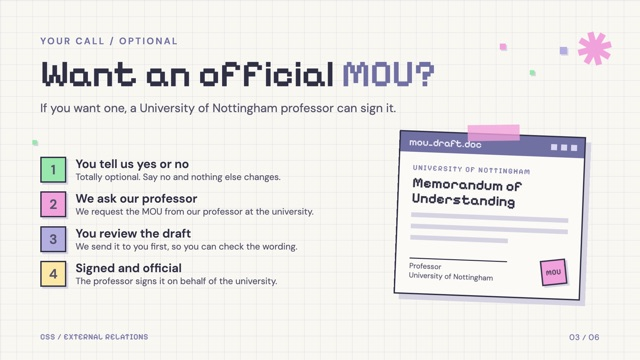
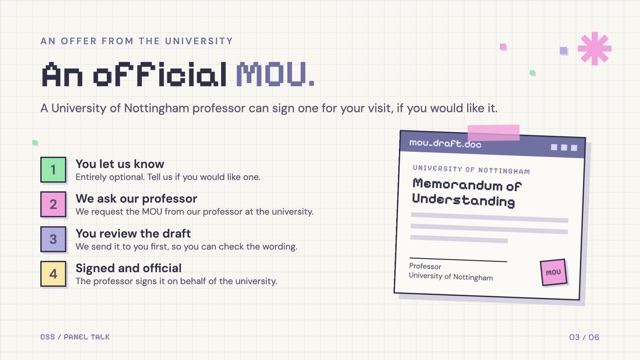
Rework the panel talk deck as the live presentation for Waihao
Cover is now CSS × Waihao. Speakers: Asadullah (Cognizant, confirmed), Waihao (Microsoft, invited) in the middle, third speaker to be confirmed. The MOU slide is a statement of what we offer rather than a question. Renames the folder to external/01-waihao-panel and updates the hub and README.

diff --git a/external/01-waihao-panel/index.html b/external/01-waihao-panel/index.html
@@ -5,7 +5,7 @@
   <meta name="viewport" content="width=device-width, initial-scale=1">
   <meta name="theme-color" content="#f8f7f2">
   <meta name="robots" content="noindex">
-  <title>CSS External Relations — Panel talk with WYHOW</title>
+  <title>Computer Science Society — Panel Talk with Waihao</title>
   <link rel="icon" href="../../assets/css-logo.png">
   <style>
     @font-face{font-family:Pixelify;src:url('../../assets/fonts/pixelify-400.ttf') format('truetype');font-weight:400;font-display:swap}
@@ -84,6 +84,7 @@
     .person .tag{margin-top:12px;font:400 24px ClearDigits,Pixelify,monospace;letter-spacing:2px;color:var(--purple)}
     .person.open{border-style:dashed;background:transparent;box-shadow:none}
     .person.open .name{color:var(--purple)}
+    .stamp.ok{background:var(--mint)}
     .stamp{position:absolute;right:-18px;top:-22px;padding:4px 16px;background:var(--pink);border:4px solid var(--ink);font:400 24px ClearDigits,Pixelify,monospace;letter-spacing:2px;transform:rotate(5deg)}
     .facts{position:absolute;left:120px;right:120px;top:850px;display:grid;grid-template-columns:1fr 1fr;gap:44px}
     .fact{padding-left:26px;border-left:6px solid var(--mint)}
@@ -156,28 +157,28 @@
   </style>
 </head>
 <body>
-  <main class="stage" id="stage" aria-label="Panel talk with WYHOW">
+  <main class="stage" id="stage" aria-label="Computer Science Society Panel Talk with Waihao">
 
     <!-- 1 · Cover -->
-    <section class="slide" aria-label="Slide 1: Panel talk with WYHOW">
+    <section class="slide" aria-label="Slide 1: CSS × Waihao">
       <div class="cover-copy">
-        <p class="eyebrow rise">COMPUTER SCIENCE SOCIETY / EXTERNAL RELATIONS</p>
-        <h1 class="rise" style="--d:1">Join our<br><em>panel talk.</em></h1>
-        <p class="rise" style="--d:2">A quick chat with WYHOW from Microsoft about speaking at our campus, University of Nottingham.</p>
-        <div class="date-button rise" style="--d:3">Meeting with WYHOW →</div>
+        <p class="eyebrow rise">COMPUTER SCIENCE SOCIETY / PANEL TALK</p>
+        <h1 class="rise" style="--d:1">CSS ×<br><em>Waihao.</em></h1>
+        <p class="rise" style="--d:2">The Computer Science Society Panel Talk, at the University of Nottingham.</p>
+        <div class="date-button rise" style="--d:3">Welcome, Waihao →</div>
       </div>
       <div class="window cover-window pop" style="--d:2;--tilt:6deg">
         <div class="tape" aria-hidden="true"></div>
         <div class="window-bar"><span>panel_talk.exe</span><span class="lights" aria-hidden="true"><i></i><i></i><i></i></span></div>
         <div class="body">
           <img src="../../assets/css-logo.png" alt="Computer Science Society logo">
-          <p class="loading">&gt; loading speaker: wyhow...</p>
+          <p class="loading">&gt; loading speaker: waihao...</p>
         </div>
       </div>
       <svg class="asterisk mint" style="left:1720px;top:96px;width:128px;height:128px" viewBox="0 0 100 100" aria-hidden="true"><path d="M50 4v92M4 50h92M17.5 17.5l65 65M82.5 17.5l-65 65"/></svg>
       <svg class="asterisk pink" style="left:1110px;top:790px;width:78px;height:78px" viewBox="0 0 100 100" aria-hidden="true"><path d="M50 4v92M4 50h92M17.5 17.5l65 65M82.5 17.5l-65 65"/></svg>
       <svg class="envelope" style="left:1560px;top:850px;width:210px;height:162px" viewBox="0 0 160 124" aria-hidden="true"><rect x="5" y="5" width="150" height="114"/><path d="M5 5l75 62 75-62"/><rect class="seal" x="66" y="54" width="28" height="26"/></svg>
-      <p class="binary" aria-hidden="true">01010111 01011001 01001000</p>
+      <p class="binary" aria-hidden="true">01010111 01000001 01001001</p>
     </section>
 
     <!-- 2 · The panel -->
@@ -193,17 +194,18 @@
       <div class="head">
         <p class="eyebrow rise">THE EVENT / PANEL TALK</p>
         <h1 class="rise" style="--d:1">Three speakers, <em>one panel.</em></h1>
-        <p class="lede rise" style="--d:2">Three speakers share their work with our students, on our campus.</p>
+        <p class="lede rise" style="--d:2">Industry speakers, our students in the room, on our campus.</p>
       </div>
       <div class="speakers">
         <article class="person pop" style="--d:3;--tilt:-1.2deg">
-          <span class="stamp" aria-hidden="true">INVITED</span>
+          <span class="stamp ok" aria-hidden="true">CONFIRMED</span>
           <div class="window-bar"><span>speaker_01.exe</span><span class="lights" aria-hidden="true"><i></i><i></i><i></i></span></div>
-          <div class="body"><div class="tile" style="--c:var(--mint)" aria-hidden="true">W</div><p class="name">WYHOW</p><p class="tag">ENGINEER · MICROSOFT</p></div>
+          <div class="body"><div class="tile" style="--c:var(--mint)" aria-hidden="true">A</div><p class="name">Asadullah</p><p class="tag">COGNIZANT</p></div>
         </article>
-        <article class="person open pop" style="--d:4;--tilt:.8deg">
+        <article class="person pop" style="--d:4;--tilt:.8deg">
+          <span class="stamp" aria-hidden="true">INVITED</span>
           <div class="window-bar"><span>speaker_02.exe</span><span class="lights" aria-hidden="true"><i></i><i></i><i></i></span></div>
-          <div class="body"><div class="tile" style="--c:var(--lavender)" aria-hidden="true">?</div><p class="name">To be confirmed</p><p class="tag">SPEAKER 02</p></div>
+          <div class="body"><div class="tile" style="--c:var(--lavender)" aria-hidden="true">W</div><p class="name">Waihao</p><p class="tag">ENGINEER · MICROSOFT</p></div>
         </article>
         <article class="person open pop" style="--d:5;--tilt:-.8deg">
           <div class="window-bar"><span>speaker_03.exe</span><span class="lights" aria-hidden="true"><i></i><i></i><i></i></span></div>
@@ -214,7 +216,7 @@
         <p class="fact"><b>WHERE</b><span>Our campus, University of Nottingham</span></p>
         <p class="fact"><b>WHEN</b><span>Picked once all three speakers are confirmed</span></p>
       </div>
-      <div class="footer"><span>CSS / EXTERNAL RELATIONS</span><span>02 / 06</span></div>
+      <div class="footer"><span>CSS / PANEL TALK</span><span>02 / 06</span></div>
     </section>
 
     <!-- 3 · MOU -->
@@ -227,12 +229,12 @@
       </div>
       <svg class="asterisk pink" style="left:1730px;top:90px;width:110px;height:110px" viewBox="0 0 100 100" aria-hidden="true"><path d="M50 4v92M4 50h92M17.5 17.5l65 65M82.5 17.5l-65 65"/></svg>
       <div class="head">
-        <p class="eyebrow rise">YOUR CALL / OPTIONAL</p>
-        <h1 class="rise" style="--d:1">Want an official <em>MOU?</em></h1>
-        <p class="lede rise" style="--d:2">If you want one, a University of Nottingham professor can sign it.</p>
+        <p class="eyebrow rise">AN OFFER FROM THE UNIVERSITY</p>
+        <h1 class="rise" style="--d:1">An official <em>MOU.</em></h1>
+        <p class="lede rise" style="--d:2">A University of Nottingham professor can sign one for your visit, if you would like it.</p>
       </div>
       <div class="steps">
-        <div class="step rise" style="--d:3"><span class="n" style="--c:var(--mint)">1</span><div><b>You tell us yes or no</b><span>Totally optional. Say no and nothing else changes.</span></div></div>
+        <div class="step rise" style="--d:3"><span class="n" style="--c:var(--mint)">1</span><div><b>You let us know</b><span>Entirely optional. Tell us if you would like one.</span></div></div>
         <div class="step rise" style="--d:4"><span class="n" style="--c:var(--pink)">2</span><div><b>We ask our professor</b><span>We request the MOU from our professor at the university.</span></div></div>
         <div class="step rise" style="--d:5"><span class="n" style="--c:var(--lavender)">3</span><div><b>You review the draft</b><span>We send it to you first, so you can check the wording.</span></div></div>
         <div class="step rise" style="--d:6"><span class="n" style="--c:var(--sun)">4</span><div><b>Signed and official</b><span>The professor signs it on behalf of the university.</span></div></div>
@@ -247,7 +249,7 @@
           <div class="sign"><div>Professor<br>University of Nottingham</div><span class="seal" aria-hidden="true">MOU</span></div>
         </div>
       </div>
-      <div class="footer"><span>CSS / EXTERNAL RELATIONS</span><span>03 / 06</span></div>
+      <div class="footer"><span>CSS / PANEL TALK</span><span>03 / 06</span></div>
     </section>
 
     <!-- 4 · Looking after speakers -->
@@ -291,7 +293,7 @@
         </article>
       </div>
       <p class="note-strip rise" style="--d:6"><i aria-hidden="true"></i>For the travel, just keep your fuel receipt or your Grab screenshot.</p>
-      <div class="footer"><span>CSS / EXTERNAL RELATIONS</span><span>04 / 06</span></div>
+      <div class="footer"><span>CSS / PANEL TALK</span><span>04 / 06</span></div>
     </section>
 
     <!-- 5 · Road to event day -->
@@ -309,14 +311,14 @@
         <p class="lede rise" style="--d:2;font-size:32px">We will keep you posted at every step.</p>
       </div>
       <div class="road">
-        <article class="stop pop" style="--d:3"><span class="n" style="--c:var(--mint)">1</span><h3>Secure all three speakers</h3><p>We confirm the other two speakers, then tell you straight away.</p><span class="chip">AIM: BY NEXT WEEK</span></article>
+        <article class="stop pop" style="--d:3"><span class="n" style="--c:var(--mint)">1</span><h3>Confirm all three speakers</h3><p>Asadullah is confirmed. We confirm the third, then tell you.</p><span class="chip">AIM: BY NEXT WEEK</span></article>
         <article class="stop pop" style="--d:4"><span class="n" style="--c:var(--pink)">2</span><h3>Ask for your best time</h3><p>We ask each speaker separately which time suits them best.</p></article>
         <article class="stop pop" style="--d:5"><span class="n" style="--c:var(--lavender)">3</span><h3>Confirm the event time</h3><p>With the best times in, we fix the date and time for everyone.</p></article>
         <article class="stop pop" style="--d:6"><span class="n" style="--c:var(--sun)">4</span><h3>Online rehearsal</h3><p>A short online session to run through the panel together.</p></article>
         <article class="stop pop" style="--d:7"><span class="n" style="--c:var(--mint)">5</span><h3>Your speaker handbook</h3><p>How to get to Nottingham, the event flow, the event questions, where to park and more.</p></article>
         <article class="stop final pop" style="--d:8"><span class="n" style="--c:var(--pink)">6</span><h3>Event day</h3><p>The panel talk, then your gift and a free dinner.</p></article>
       </div>
-      <div class="footer"><span>CSS / EXTERNAL RELATIONS</span><span>05 / 06</span></div>
+      <div class="footer"><span>CSS / PANEL TALK</span><span>05 / 06</span></div>
     </section>
 
     <!-- 6 · Questions -->
@@ -331,11 +333,11 @@
       <div class="head">
         <p class="eyebrow rise">QUESTIONS FOR YOU</p>
         <h1 class="rise" style="--d:1">A few quick <em>questions.</em></h1>
-        <p class="lede rise" style="--d:2">Short answers are fine. Your reply is not a final commitment.</p>
+        <p class="lede rise" style="--d:2">Short answers are fine. Nothing here is final.</p>
       </div>
       <div class="asks">
         <div class="ask rise" style="--d:3"><span class="box" aria-hidden="true"></span><div><b>Would you like to join the panel?</b><span>The date is not fixed yet, so this is your interest for now.</span></div></div>
-        <div class="ask rise" style="--d:4"><span class="box" aria-hidden="true"></span><div><b>Do you want an official MOU?</b><span>Signed by a University of Nottingham professor, only if you want one.</span></div></div>
+        <div class="ask rise" style="--d:4"><span class="box" aria-hidden="true"></span><div><b>Shall we arrange the MOU?</b><span>Signed by a University of Nottingham professor, only if you would like one.</span></div></div>
         <div class="ask rise" style="--d:5"><span class="box" aria-hidden="true"></span><div><b>Does fuel or Grab reimbursement work?</b><span>Plus the thank-you gift and free dinner on the day.</span></div></div>
         <div class="ask rise" style="--d:6"><span class="box" aria-hidden="true"></span><div><b>Any days or times we should avoid?</b><span>This helps when we ask every speaker for a best time.</span></div></div>
       </div>
@@ -344,11 +346,11 @@
         <div class="window-bar"><span>next_steps.txt</span><span class="lights" aria-hidden="true"><i></i><i></i><i></i></span></div>
         <div class="body">
           <p class="k">&gt; WHAT WE DO NEXT</p>
-          <p>We secure all three speakers, aiming for next week, then come back to you with the plan.</p>
-          <p class="thanks">Thank you, WYHOW!</p>
+          <p>We confirm our third speaker, aiming for next week, then come back to you with the plan.</p>
+          <p class="thanks">Thank you, Waihao!</p>
         </div>
       </div>
-      <div class="footer"><span>CSS / EXTERNAL RELATIONS</span><span>06 / 06</span></div>
+      <div class="footer"><span>CSS / PANEL TALK</span><span>06 / 06</span></div>
     </section>
 
   </main>

diff --git a/index.html b/index.html
@@ -95,13 +95,13 @@
         <div class="sec-head"><span class="sec-no" style="--c:var(--lavender)" aria-hidden="true">3</span><div><h2 id="external-h">External relations</h2><p>Slides for speakers, partners and the university.</p></div></div>
         <div class="decks">
       <article class="deck">
-        <div class="bar"><span>wyhow_panel.exe</span><span class="lights" aria-hidden="true"><i></i><i></i><i></i></span></div>
+        <div class="bar"><span>waihao_panel.exe</span><span class="lights" aria-hidden="true"><i></i><i></i><i></i></span></div>
         <div class="deck-body">
           <p class="tag">SPEAKER MEETING · PANEL TALK</p>
-          <h3><a href="external/01-wyhow-panel/">Panel talk with WYHOW</a></h3>
-        <p class="note">Short briefing for the Microsoft engineer we are inviting to speak on campus.</p>
-          <ol class="thumbs"><li><a href="external/01-wyhow-panel/#1" title="Join our panel talk" aria-label="Panel talk with WYHOW, slide 1: Join our panel talk"><span class="shot"><img src="external/thumbs/01-1.jpg" alt="" loading="lazy" width="640" height="360"><b>01</b></span><span class="cap">Join our panel talk</span></a></li><li><a href="external/01-wyhow-panel/#2" title="The panel" aria-label="Panel talk with WYHOW, slide 2: The panel"><span class="shot"><img src="external/thumbs/01-2.jpg" alt="" loading="lazy" width="640" height="360"><b>02</b></span><span class="cap">The panel</span></a></li><li><a href="external/01-wyhow-panel/#3" title="Official MOU" aria-label="Panel talk with WYHOW, slide 3: Official MOU"><span class="shot"><img src="external/thumbs/01-3.jpg" alt="" loading="lazy" width="640" height="360"><b>03</b></span><span class="cap">Official MOU</span></a></li><li><a href="external/01-wyhow-panel/#4" title="Looking after speakers" aria-label="Panel talk with WYHOW, slide 4: Looking after speakers"><span class="shot"><img src="external/thumbs/01-4.jpg" alt="" loading="lazy" width="640" height="360"><b>04</b></span><span class="cap">Looking after speakers</span></a></li><li><a href="external/01-wyhow-panel/#5" title="From yes to event day" aria-label="Panel talk with WYHOW, slide 5: From yes to event day"><span class="shot"><img src="external/thumbs/01-5.jpg" alt="" loading="lazy" width="640" height="360"><b>05</b></span><span class="cap">From yes to event day</span></a></li><li><a href="external/01-wyhow-panel/#6" title="Quick questions" aria-label="Panel talk with WYHOW, slide 6: Quick questions"><span class="shot"><img src="external/thumbs/01-6.jpg" alt="" loading="lazy" width="640" height="360"><b>06</b></span><span class="cap">Quick questions</span></a></li></ol>
-          <div class="deck-foot"><span class="count">6 SLIDES</span><a class="open" href="external/01-wyhow-panel/">Open deck →</a></div>
+          <h3><a href="external/01-waihao-panel/">Panel talk with Waihao</a></h3>
+        <p class="note">Slides for our meeting with Waihao, a Microsoft engineer we have invited to speak at our panel talk.</p>
+          <ol class="thumbs"><li><a href="external/01-waihao-panel/#1" title="CSS × Waihao" aria-label="Panel talk with Waihao, slide 1: CSS × Waihao"><span class="shot"><img src="external/thumbs/01-1.jpg" alt="" loading="lazy" width="640" height="360"><b>01</b></span><span class="cap">CSS × Waihao</span></a></li><li><a href="external/01-waihao-panel/#2" title="The panel" aria-label="Panel talk with Waihao, slide 2: The panel"><span class="shot"><img src="external/thumbs/01-2.jpg" alt="" loading="lazy" width="640" height="360"><b>02</b></span><span class="cap">The panel</span></a></li><li><a href="external/01-waihao-panel/#3" title="Official MOU" aria-label="Panel talk with Waihao, slide 3: Official MOU"><span class="shot"><img src="external/thumbs/01-3.jpg" alt="" loading="lazy" width="640" height="360"><b>03</b></span><span class="cap">Official MOU</span></a></li><li><a href="external/01-waihao-panel/#4" title="Looking after speakers" aria-label="Panel talk with Waihao, slide 4: Looking after speakers"><span class="shot"><img src="external/thumbs/01-4.jpg" alt="" loading="lazy" width="640" height="360"><b>04</b></span><span class="cap">Looking after speakers</span></a></li><li><a href="external/01-waihao-panel/#5" title="From yes to event day" aria-label="Panel talk with Waihao, slide 5: From yes to event day"><span class="shot"><img src="external/thumbs/01-5.jpg" alt="" loading="lazy" width="640" height="360"><b>05</b></span><span class="cap">From yes to event day</span></a></li><li><a href="external/01-waihao-panel/#6" title="Questions" aria-label="Panel talk with Waihao, slide 6: Questions"><span class="shot"><img src="external/thumbs/01-6.jpg" alt="" loading="lazy" width="640" height="360"><b>06</b></span><span class="cap">Questions</span></a></li></ol>
+          <div class="deck-foot"><span class="count">6 SLIDES</span><a class="open" href="external/01-waihao-panel/">Open deck →</a></div>
         </div>
       </article>
         </div>

diff --git a/README.md b/README.md
@@ -21,9 +21,9 @@ Regular slot: Tuesdays at 6 PM, under an hour.
 
 | # | Deck | Folder |
 |---|------|--------|
-| 01 | Panel talk with WYHOW, the Microsoft engineer we are inviting to speak (6 slides: the panel, optional MOU, travel reimbursement, gift and dinner, the road to event day, questions) | [`external/01-wyhow-panel/`](external/01-wyhow-panel/) |
+| 01 | Computer Science Society Panel Talk, CSS × Waihao: the deck we show Waihao (Microsoft) when we meet to invite him to speak (6 slides: cover, the panel, optional MOU, travel reimbursement, gift and dinner, the road to event day, questions) | [`external/01-waihao-panel/`](external/01-waihao-panel/) |
 
-It is a single self-contained file with the same keys as the weeklies. Its speaker details (names of the other two speakers, the date) are still to be filled in once confirmed.
+It is a single self-contained file with the same keys as the weeklies. Speakers: Asadullah (Cognizant, confirmed), Waihao (Microsoft, invited) and a third speaker still to be confirmed; update slide 2 and the thumbnails when that changes.
 
 ## Presenting
 
